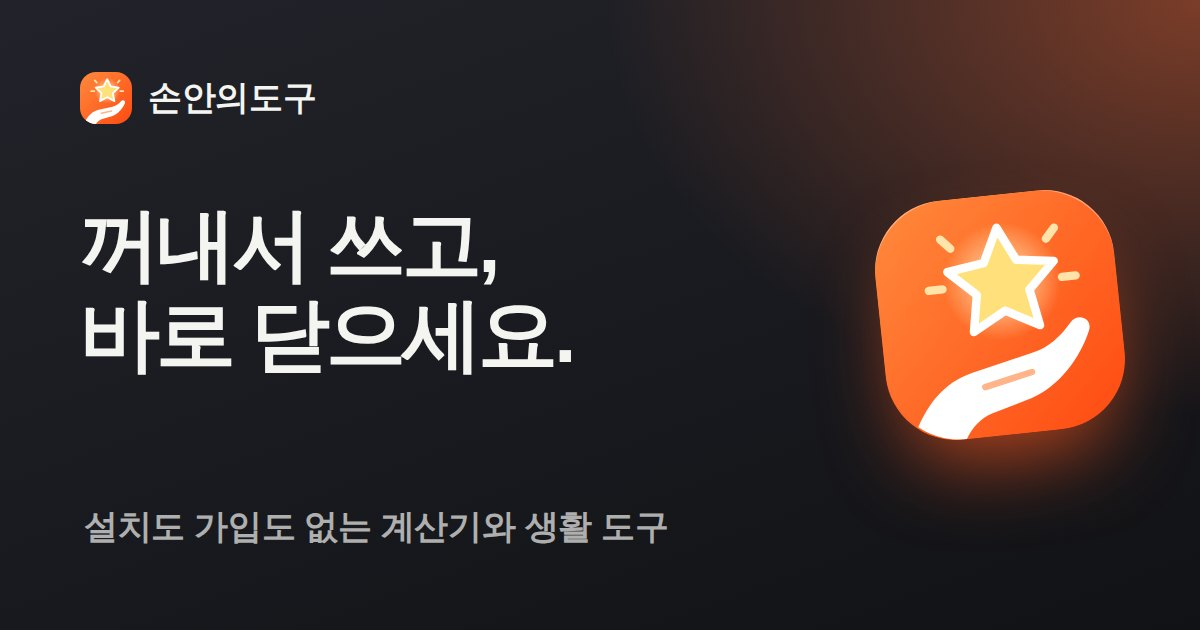
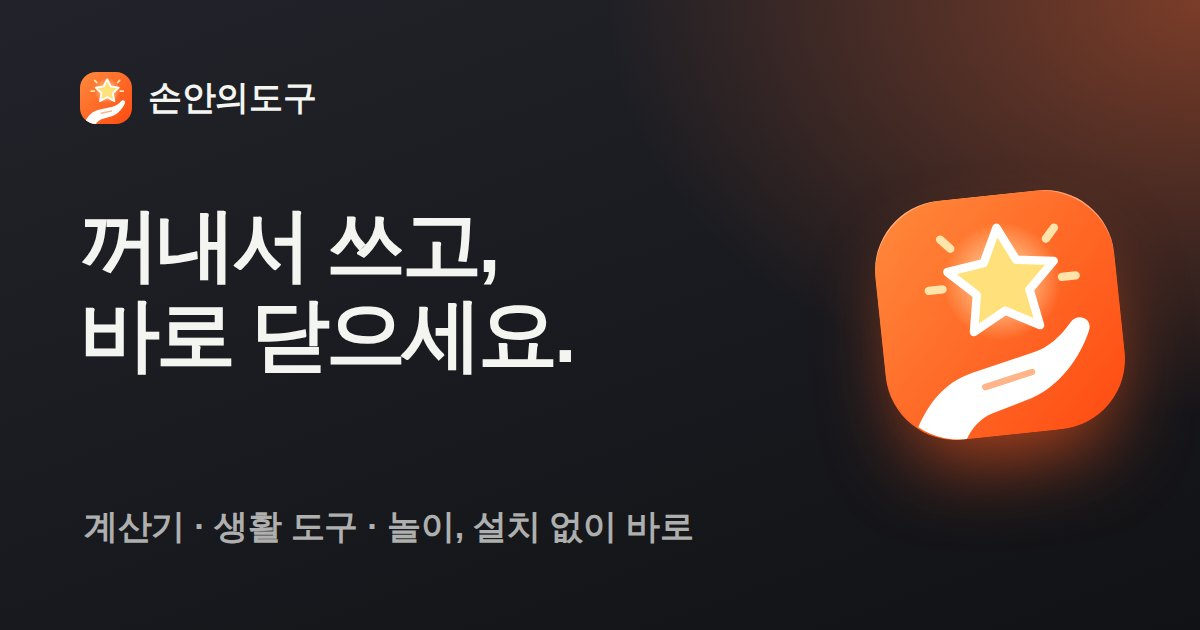
Add files via upload

Changed region(s): [[0.0617, 0.8143, 0.5858, 0.8746]]

diff --git a/about/index.html b/about/index.html
@@ -8,13 +8,13 @@
 <meta name="theme-color" content="#F4F4F1">
 <meta property="og:type" content="website">
 <meta property="og:url" content="https://sonandogu.com/about/">
-<meta property="og:image" content="https://sonandogu.com/assets/og-default.jpg">
+<meta property="og:image" content="https://sonandogu.com/assets/og-default.jpg?v=2">
 <meta property="og:image:width" content="1200"><meta property="og:image:height" content="630">
 <meta name="twitter:card" content="summary_large_image">
 <meta property="og:title" content="사이트 소개 | 손안의도구">
 <meta property="og:description" content="필요할 때 꺼내 쓰는 손안의 도구 상자.">
 <title>사이트 소개 | 손안의도구</title>
-<meta name="description" content="손안의도구는 설치도 가입도 없이 바로 쓰는 생활 도구, 놀이, 읽을거리를 모아둔 무료 사이트입니다. 만든 이유와 운영 원칙, 문의 방법을 안내합니다.">
+<meta name="description" content="손안의도구는 계산기부터 생활 도구, 함께 즐기는 놀이까지 설치도 가입도 없이 바로 쓰는 무료 사이트입니다. 만든 이유와 운영 원칙, 마스코트 엔도, 문의 방법을 안내합니다.">
 <meta property="og:site_name" content="손안의도구">
 <link rel="canonical" href="https://sonandogu.com/about/">
 <link rel="stylesheet" href="https://cdn.jsdelivr.net/gh/orioncactus/pretendard@v1.3.9/dist/web/variable/pretendardvariable-dynamic-subset.min.css">
@@ -82,14 +82,15 @@ footer .fl a:hover{color:var(--ink)}
 <header class="top"><div class="in"><a class="brand" href="/"><svg width="26" height="26" viewBox="0 0 26 26" aria-hidden="true"><defs><linearGradient id="lg" x1="0" y1="0" x2="1" y2="1"><stop offset="0" stop-color="#FF8A3D"/><stop offset="1" stop-color="#FF4A12"/></linearGradient><radialGradient id="lw" cx=".5" cy=".5" r=".5"><stop offset="0" stop-color="#FFF6C8" stop-opacity=".9"/><stop offset="1" stop-color="#FFF6C8" stop-opacity="0"/></radialGradient><clipPath id="lc"><rect width="26" height="26" rx="8"/></clipPath></defs> <rect width="26" height="26" rx="8" fill="url(#lg)"/> <g clip-path="url(#lc)"> <circle cx="13.6" cy="9.4" r="6.4" fill="url(#lw)"/> <g stroke="#FFF1B8" stroke-width=".9" stroke-linecap="round" opacity=".9"><path d="M7.4 4.2l1 1.1M19.8 4.2l-1 1.1M5.6 9.6h1.5M20.1 9.6h1.5"/></g> <path transform="translate(13.6 9.3) scale(1.22) translate(-13.6 -9.3)" d="M13.6 4.6l1.45 3 3.3.45-2.4 2.3.6 3.25-2.95-1.6-2.95 1.6.6-3.25-2.4-2.3 3.3-.45z" fill="#FFE07A" stroke="#FFFFFF" stroke-width=".75" stroke-linejoin="round"/> <path d="M1.6 27C3.4 22.4 5.8 19.7 9.4 18.9l6.8-1.5c1.6-.35 3.1-1.4 4.3-2.8.9-1 2.5-.2 1.9 1.1-1.3 2.9-3.8 5.6-6.9 6.6l-4.4 1.2c-1.7.45-2.9 1.9-3.6 3.5z" fill="#FFFFFF"/> <path d="M10.6 20.6l5.2-1.1" stroke="#FFB48A" stroke-width=".7" stroke-linecap="round"/> </g></svg>손안의도구</a><nav style="display:flex;gap:18px"><a href="/blog/">블로그</a><a href="/">전체 도구</a></nav></div></header>
 <div class="container"><main class="doc">
 <h1>필요할 때 꺼내 쓰는<br>손안의 도구 상자</h1>
-<p class="lead">손안의도구는 일상에서 문득 필요해지는 계산기, 생활 도구, 놀이, 그리고 그걸 더 잘 쓰는 법을 담은 글을 모아둔 무료 사이트입니다.</p>
+<p class="lead">손안의도구는 계산기부터 생활 도구, 함께 즐기는 놀이까지, 필요한 순간 바로 꺼내 쓰는 무료 사이트예요. 블로그에는 그 도구들을 더 잘 쓰는 법과 헷갈리기 쉬운 생활 속 정보를 담아요.</p>
 
 <h2>만든 이유</h2>
 <p>간단한 계산 하나, 양식 하나가 필요해서 검색했다가 광고와 팝업, 회원가입 창 사이를 헤맨 적이 있을 거예요. 손안의도구는 그런 순간을 위해 만들었어요. 필요한 순간 바로 열어서, 원하는 걸 얻고, 미련 없이 닫을 수 있는 곳. 서랍 속 공구함처럼 평소엔 잊고 지내다가 필요할 때 손만 뻗으면 되는 사이트가 목표예요.</p>
 
 <h2>무엇을 담나요</h2>
-<div class="box"><h3>생활 도구</h3><p>계산기, 양식 작성기, 변환기처럼 일상과 일에서 자주 쓰는 작은 도구들이에요.</p></div>
-<div class="box"><h3>놀이</h3><p>윷놀이 같은 우리 전통 놀이부터, 모였을 때 폰 하나로 함께 즐길 수 있는 놀이를 만들어요.</p></div>
+<div class="box"><h3>계산기</h3><p>할인율, 정산, 비율처럼 일상에서 자주 막히는 계산을 숫자 몇 개로 끝내요.</p></div>
+<div class="box"><h3>생활 도구</h3><p>영수증 작성기처럼 일과 생활에서 필요한 양식이나 작은 도구들이에요.</p></div>
+<div class="box"><h3>놀이</h3><p>윷놀이 같은 우리 전통 놀이부터, 모였을 때 폰 하나로 함께 즐기는 놀이까지 만들어요.</p></div>
 <div class="box"><h3>읽을거리</h3><p>블로그에서는 도구 뒤에 숨은 원리와, 헷갈리기 쉬운 생활 속 계산과 정보를 쉽게 풀어 써요.</p></div>
 <p>도구는 계속 늘어나고 있어요. 지금 쓸 수 있는 도구는 <a href="/">전체 도구</a>에서, 글은 <a href="/blog/">블로그</a>에서 볼 수 있어요.</p>
 

diff --git a/index.html b/index.html
@@ -9,13 +9,13 @@
 <meta name="theme-color" content="#F4F4F1">
 <meta property="og:type" content="website">
 <meta property="og:url" content="https://sonandogu.com/">
-<meta property="og:image" content="https://sonandogu.com/assets/og-default.jpg">
+<meta property="og:image" content="https://sonandogu.com/assets/og-default.jpg?v=2">
 <meta property="og:image:width" content="1200"><meta property="og:image:height" content="630">
 <meta name="twitter:card" content="summary_large_image">
 <meta property="og:title" content="손안의도구 - 자주 쓰는 계산기와 생활 도구 모음">
 <meta property="og:description" content="퍼센트 계산기를 비롯해 일상에서 자주 쓰는 계산기와 도구를 설치 없이 바로 쓸 수 있는 손안의도구.">
-<title>손안의도구 - 자주 쓰는 계산기와 생활 도구 모음</title>
-<meta name="description" content="퍼센트 계산기, 더치페이 계산기, 간이영수증 작성기, 온라인 윷놀이까지. 설치도 가입도 없이 바로 쓰는 계산기와 생활 도구 모음, 손안의도구.">
+<title>손안의도구 - 계산기, 생활 도구, 놀이를 설치 없이 바로</title>
+<meta name="description" content="퍼센트·더치페이 계산기, 간이영수증 작성기 같은 생활 도구부터 온라인 윷놀이까지. 설치도 가입도 없이 바로 쓰는 손안의도구.">
 <meta property="og:site_name" content="손안의도구">
 <link rel="stylesheet" href="https://cdn.jsdelivr.net/gh/orioncactus/pretendard@v1.3.9/dist/web/variable/pretendardvariable-dynamic-subset.min.css">
 <style>:root{
@@ -89,7 +89,7 @@ footer .fl a:hover{color:var(--ink)}
 <div class="container">
   <section class="hero">
     <h1>꺼내서 쓰고,<br><span>바로 닫으세요.</span></h1>
-    <p>설치도 가입도 없이, 필요한 순간에만 손에 쥐는 계산기와 생활 도구.</p>
+    <p>계산기부터 생활 도구, 함께 즐기는 놀이까지. 설치도 가입도 없이 필요한 순간 바로 꺼내 쓰세요.</p>
   </section>
   <main class="grid">
     <a class="t" href="/percent/">

diff --git a/blog/simple-receipt/index.html b/blog/simple-receipt/index.html
@@ -8,7 +8,7 @@
 <meta name="theme-color" content="#F4F4F1">
 <meta property="og:type" content="article">
 <meta property="og:url" content="https://sonandogu.com/blog/simple-receipt/">
-<meta property="og:image" content="https://sonandogu.com/assets/og-receipt-post.jpg">
+<meta property="og:image" content="https://sonandogu.com/assets/og-receipt-post.jpg?v=2">
 <meta property="og:image:width" content="1200"><meta property="og:image:height" content="630">
 <meta name="twitter:card" content="summary_large_image">
 <title>간이영수증 3만 원 기준, 넘으면 어떻게 될까? 가산세 2% 총정리 | 손안의도구</title>

diff --git a/blog/dutch-pay/index.html b/blog/dutch-pay/index.html
@@ -8,7 +8,7 @@
 <meta name="theme-color" content="#F4F4F1">
 <meta property="og:type" content="article">
 <meta property="og:url" content="https://sonandogu.com/blog/dutch-pay/">
-<meta property="og:image" content="https://sonandogu.com/assets/og-dutch-post.jpg">
+<meta property="og:image" content="https://sonandogu.com/assets/og-dutch-post.jpg?v=2">
 <meta property="og:image:width" content="1200"><meta property="og:image:height" content="630">
 <meta name="twitter:card" content="summary_large_image">
 <title>N빵하면 꼭 누군가 서운한 이유, 더치페이 정산 깔끔하게 하는 법 | 손안의도구</title>

diff --git a/blog/percent-point/index.html b/blog/percent-point/index.html
@@ -8,7 +8,7 @@
 <meta name="theme-color" content="#F4F4F1">
 <meta property="og:type" content="article">
 <meta property="og:url" content="https://sonandogu.com/blog/percent-point/">
-<meta property="og:image" content="https://sonandogu.com/assets/og-percentpoint.jpg">
+<meta property="og:image" content="https://sonandogu.com/assets/og-percentpoint.jpg?v=2">
 <meta property="og:image:width" content="1200"><meta property="og:image:height" content="630">
 <meta name="twitter:card" content="summary_large_image">
 <title>퍼센트와 퍼센트포인트 차이, 금리 2%→3%는 몇 % 오른 걸까 | 손안의도구</title>

diff --git a/blog/discount-rate/index.html b/blog/discount-rate/index.html
@@ -8,7 +8,7 @@
 <meta name="theme-color" content="#F4F4F1">
 <meta property="og:type" content="article">
 <meta property="og:url" content="https://sonandogu.com/blog/discount-rate/">
-<meta property="og:image" content="https://sonandogu.com/assets/og-discount.jpg">
+<meta property="og:image" content="https://sonandogu.com/assets/og-discount.jpg?v=2">
 <meta property="og:image:width" content="1200"><meta property="og:image:height" content="630">
 <meta name="twitter:card" content="summary_large_image">
 <title>20% 할인에 10% 더, 왜 30%가 아닐까? 할인율 계산 쉽게 이해하기 | 손안의도구</title>

diff --git a/traditional/index.html b/traditional/index.html
@@ -9,7 +9,7 @@
 <meta name="theme-color" content="#F4F4F1">
 <meta property="og:type" content="website">
 <meta property="og:url" content="https://sonandogu.com/traditional/">
-<meta property="og:image" content="https://sonandogu.com/assets/og-traditional.jpg">
+<meta property="og:image" content="https://sonandogu.com/assets/og-traditional.jpg?v=2">
 <meta property="og:image:width" content="1200"><meta property="og:image:height" content="630">
 <meta name="twitter:card" content="summary_large_image">
 <meta property="og:title" content="전통 놀이 - 온라인 윷놀이와 우리 놀이 모음 | 손안의도구">

diff --git a/blog/yut-rules/index.html b/blog/yut-rules/index.html
@@ -8,7 +8,7 @@
 <meta name="theme-color" content="#F4F4F1">
 <meta property="og:type" content="article">
 <meta property="og:url" content="https://sonandogu.com/blog/yut-rules/">
-<meta property="og:image" content="https://sonandogu.com/assets/og-yut-post.jpg">
+<meta property="og:image" content="https://sonandogu.com/assets/og-yut-post.jpg?v=2">
 <meta property="og:image:width" content="1200"><meta property="og:image:height" content="630">
 <meta name="twitter:card" content="summary_large_image">
 <title>윷놀이 규칙 총정리: 지름길, 업기, 잡기, 빽도까지 | 손안의도구</title>

diff --git a/blog/salary-raise/index.html b/blog/salary-raise/index.html
@@ -8,7 +8,7 @@
 <meta name="theme-color" content="#F4F4F1">
 <meta property="og:type" content="article">
 <meta property="og:url" content="https://sonandogu.com/blog/salary-raise/">
-<meta property="og:image" content="https://sonandogu.com/assets/og-salary.jpg">
+<meta property="og:image" content="https://sonandogu.com/assets/og-salary.jpg?v=2">
 <meta property="og:image:width" content="1200"><meta property="og:image:height" content="630">
 <meta name="twitter:card" content="summary_large_image">
 <title>연봉 인상률 계산법: 실질 인상률과 복리 효과까지 | 손안의도구</title>

diff --git a/receipt/index.html b/receipt/index.html
@@ -9,7 +9,7 @@
 <meta name="theme-color" content="#F4F4F1">
 <meta property="og:type" content="website">
 <meta property="og:url" content="https://sonandogu.com/receipt/">
-<meta property="og:image" content="https://sonandogu.com/assets/og-receipt.jpg">
+<meta property="og:image" content="https://sonandogu.com/assets/og-receipt.jpg?v=2">
 <meta property="og:image:width" content="1200"><meta property="og:image:height" content="630">
 <meta name="twitter:card" content="summary_large_image">
 <title>간이영수증 작성기 - 무료 양식 작성, 이미지·PDF 저장 | 손안의도구</title>

diff --git a/traditional/yut/index.html b/traditional/yut/index.html
@@ -8,7 +8,7 @@
 <meta name="theme-color" content="#F4F4F1">
 <meta property="og:type" content="website">
 <meta property="og:url" content="https://sonandogu.com/traditional/yut/">
-<meta property="og:image" content="https://sonandogu.com/assets/og-yut.jpg">
+<meta property="og:image" content="https://sonandogu.com/assets/og-yut.jpg?v=2">
 <meta property="og:image:width" content="1200"><meta property="og:image:height" content="630">
 <meta name="twitter:card" content="summary_large_image">
 <title>온라인 윷놀이 - 윷판, 십이지 말, 팀 대결까지 무료로 | 손안의도구</title>

diff --git a/dutch/index.html b/dutch/index.html
@@ -9,7 +9,7 @@
 <meta name="theme-color" content="#F4F4F1">
 <meta property="og:type" content="website">
 <meta property="og:url" content="https://sonandogu.com/dutch/">
-<meta property="og:image" content="https://sonandogu.com/assets/og-dutch.jpg">
+<meta property="og:image" content="https://sonandogu.com/assets/og-dutch.jpg?v=2">
 <meta property="og:image:width" content="1200"><meta property="og:image:height" content="630">
 <meta name="twitter:card" content="summary_large_image">
 <title>더치페이 계산기 - N빵 정산, 송금 메시지까지 한 번에 | 손안의도구</title>
